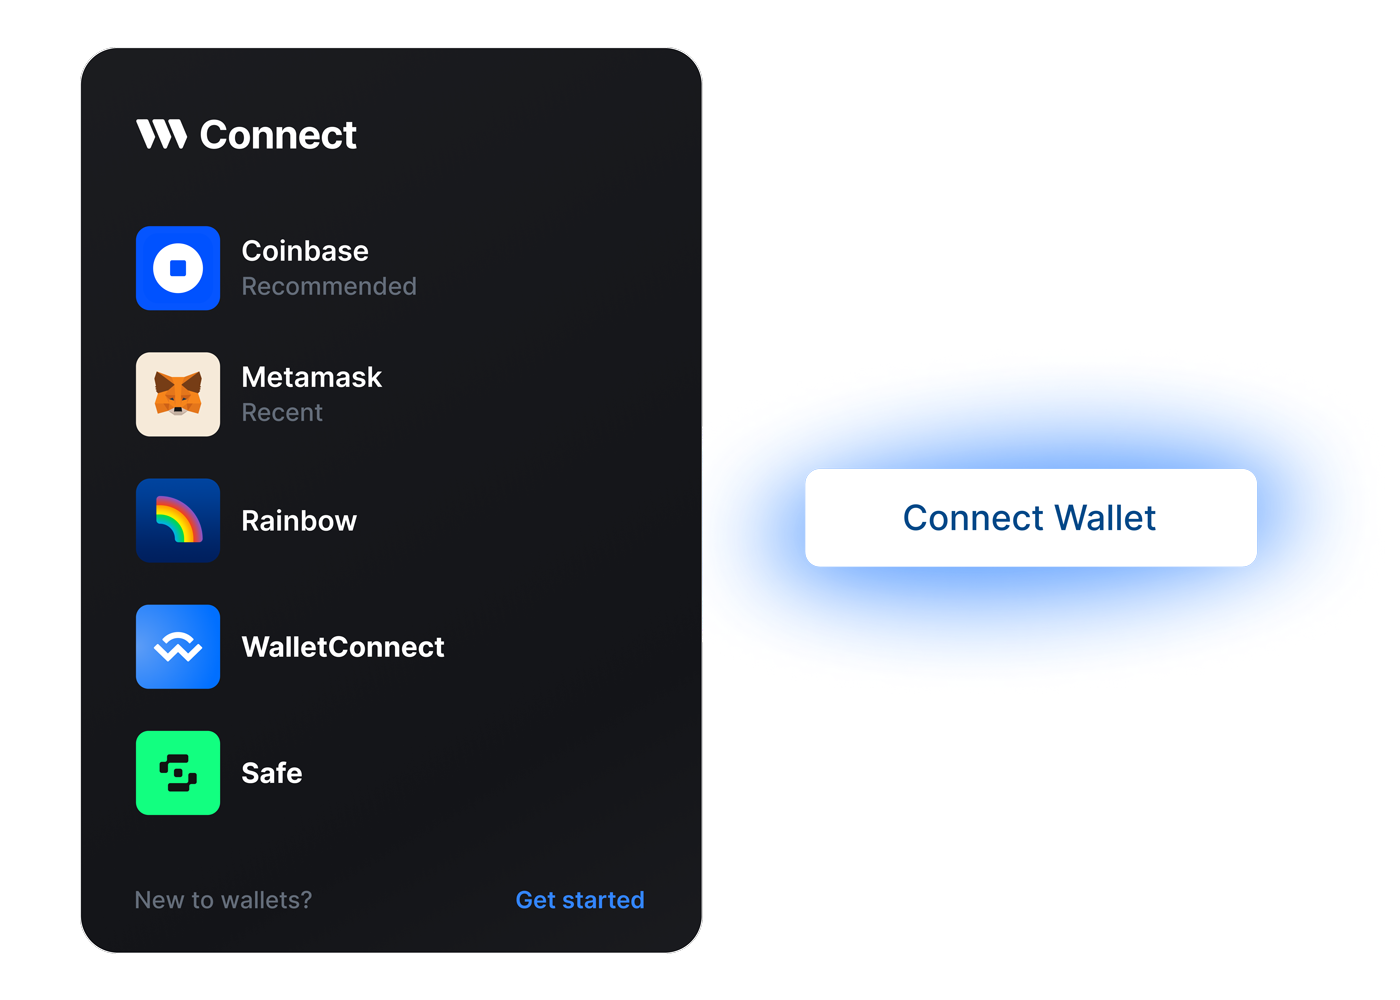
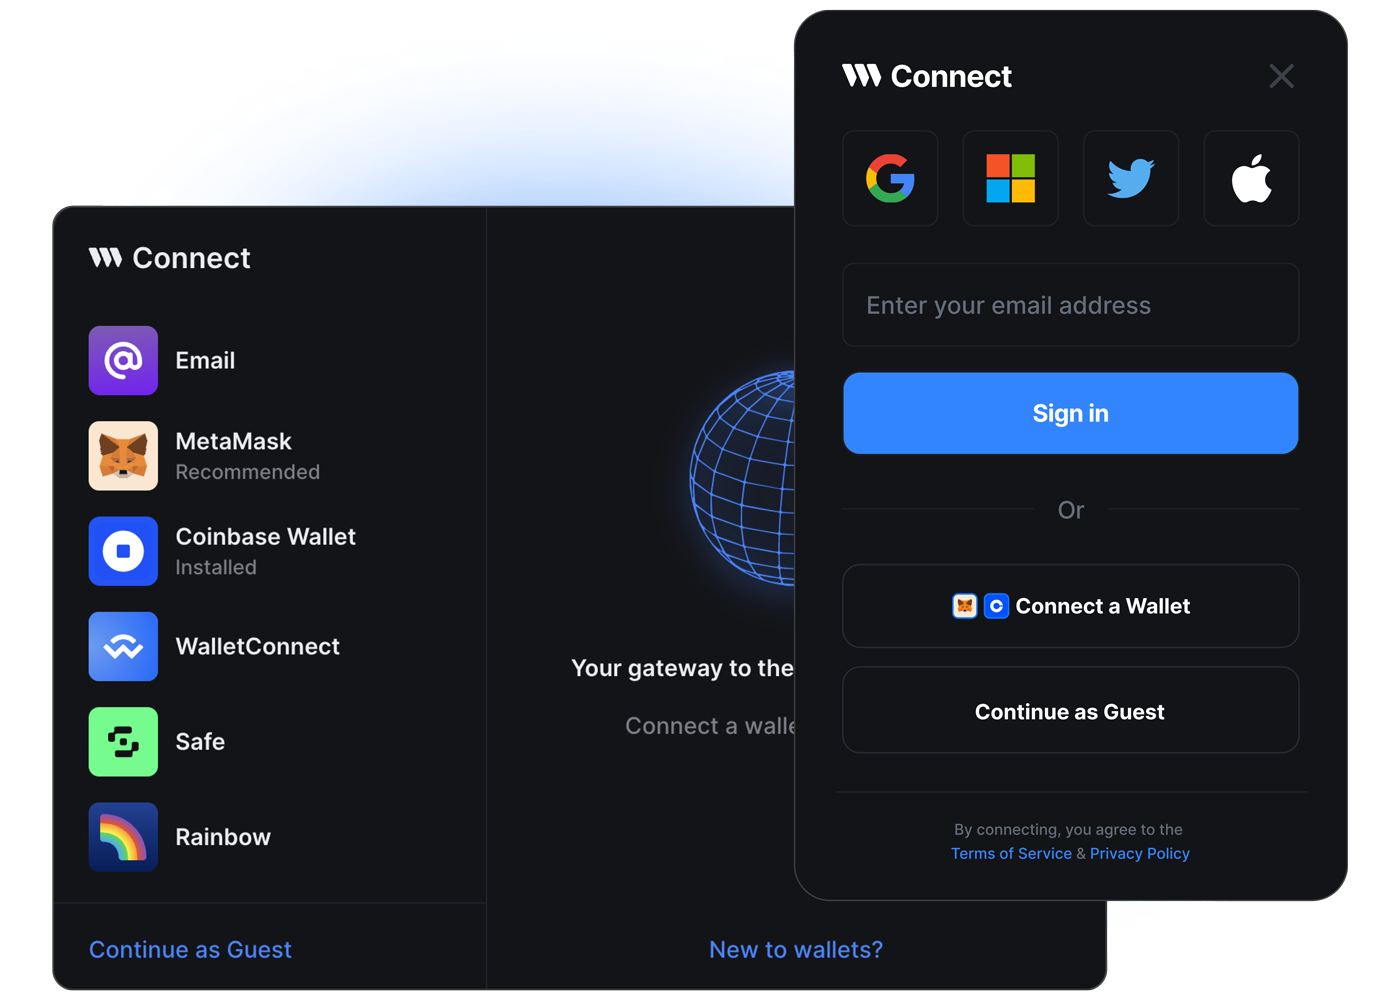
update hero and OG

diff --git a/pages/connect.tsx b/pages/connect.tsx
@@ -25,7 +25,7 @@ const ConnectLanding: ThirdwebNextPage = () => {
         openGraph: {
           images: [
             {
-              url: `${getAbsoluteUrl()}/assets/og-image/embedded-wallets.png`,
+              url: `${getAbsoluteUrl()}/assets/og-image/thirdweb-connect.png`,
               width: 1200,
               height: 630,
               alt: "Web3 Onboarding, Built for the Next Billion Users",
